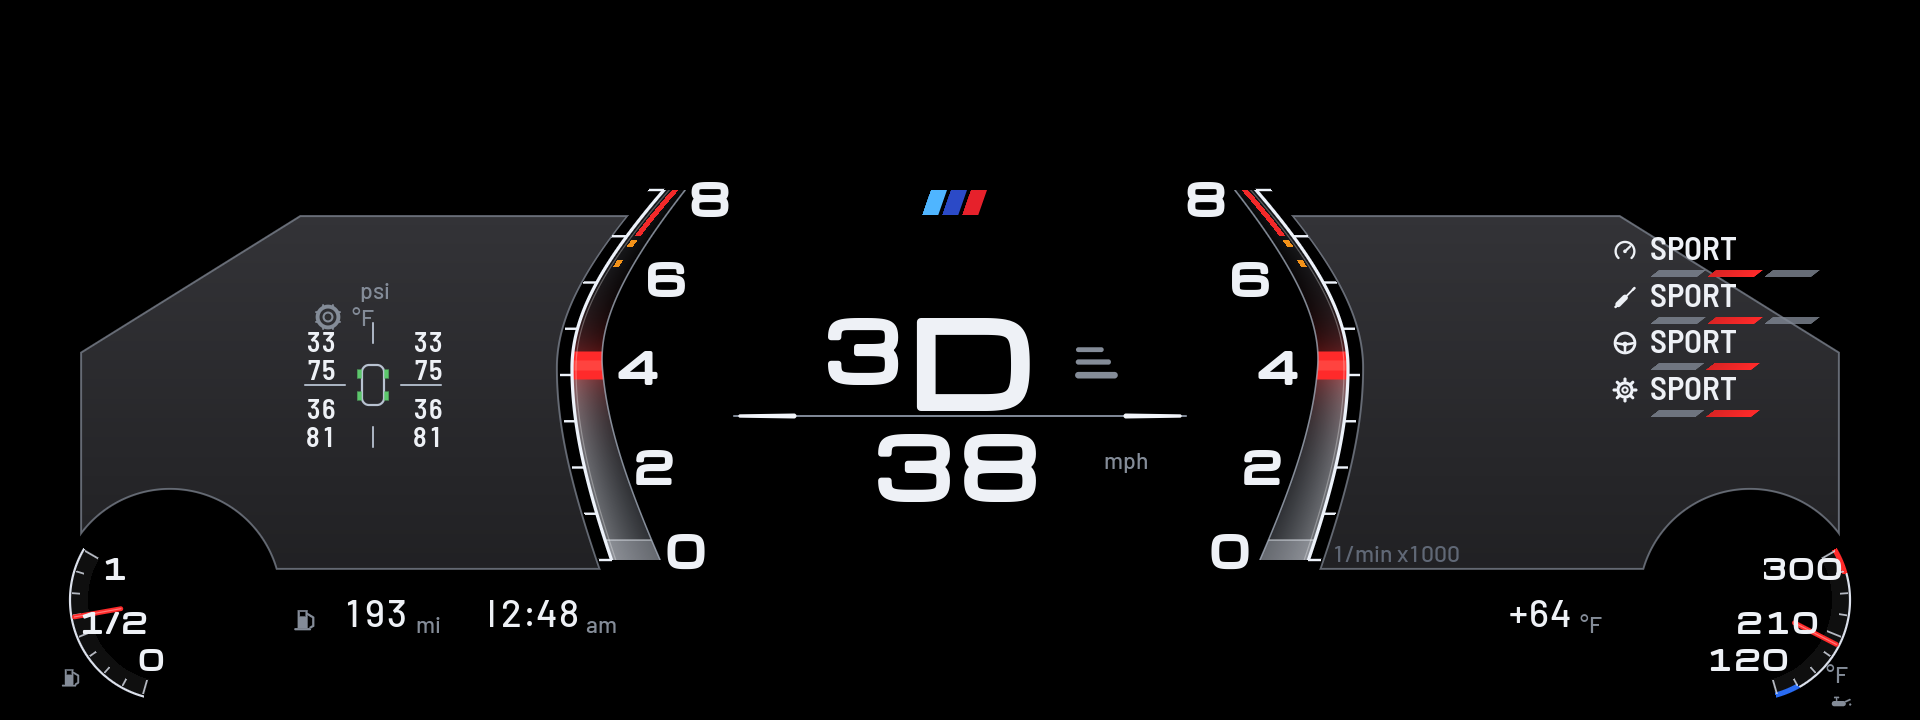
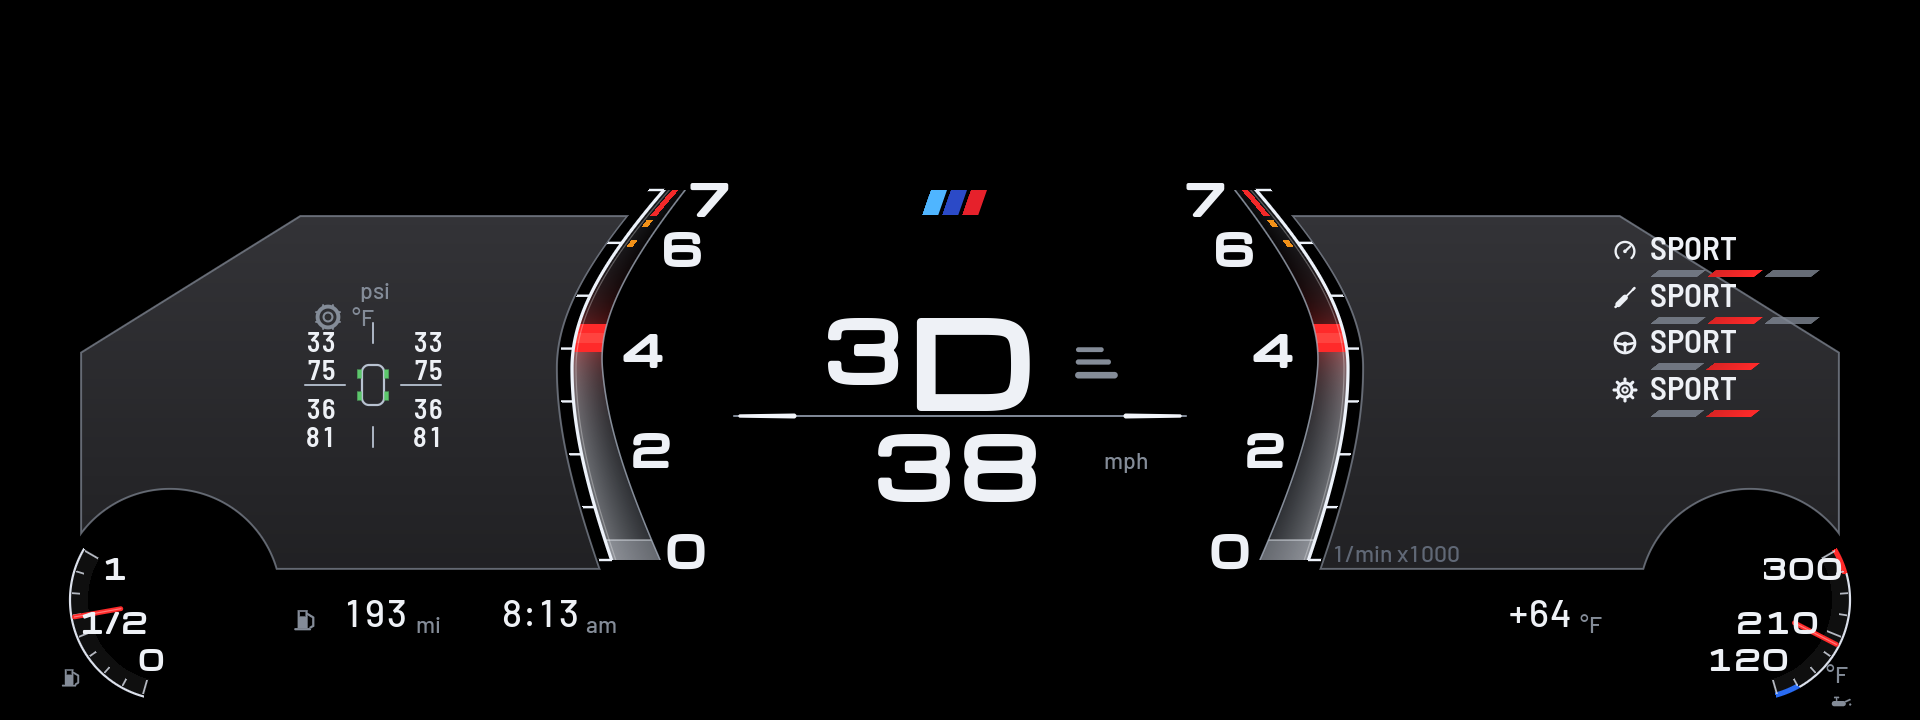
Rev scales end at 7000 rpm like the M40i's cluster (0.7.5)
Claude-Session: https://claude.ai/code/session_01Pd9qGGBHowUHizr4Ey8fBR

diff --git a/shared/hud.js b/shared/hud.js
@@ -704,6 +704,14 @@ class HudApp {
         return Object.prototype.hasOwnProperty.call(d, name) ? d[name] : null;
     }
 
+    /** Where the red and orange marks start on a rev scale that ends at `max` rpm, as fractions 0..1: red from the
+     *  redline, but always covering at least the last 500 rpm (the M40i's scale ends right at its 7000 redline),
+     *  orange over the 700 rpm before the red. */
+    _redMarks(max) {
+        const redFrom = Math.min(this.setting('redline'), max - 500) / max;
+        return [redFrom, redFrom - 700 / max];
+    }
+
     /** The scale label nearest the value now: 'speed' (SPEED_SCALE index) or 'rpm' (thousands); null without data. */
     _nearMark(kind) {
         if (kind === 'rpm') { const r = this._raw('rpm'); return isNum(r) ? Math.round(r / 1000) : null; }
@@ -1009,8 +1017,9 @@ class HudApp {
             c.uniform(ref, 'u_inner', [w.inner || w.band + 18]);
             c.uniform(ref, 'u_scale', w.scale || [w.geo[2], w.geo[0]]);
             c.uniform(ref, 'u_ticks', w.ticks);
-            c.uniform(ref, 'u_redFrom', [this.setting('redline') / (w.rpmMax || 8000)]);
-            c.uniform(ref, 'u_orange', [(this.setting('redline') - 700) / (w.rpmMax || 8000)]);
+            const [redFrom, orange] = this._redMarks(w.rpmMax || 8000);
+            c.uniform(ref, 'u_redFrom', [redFrom]);
+            c.uniform(ref, 'u_orange', [orange]);
             c.uniform(ref, 'u_fuelSeg', w.fuelSeg);
             c.uniform(ref, 'u_oilSeg', w.oilSeg);
             c.uniform(ref, 'u_hole', this._hole(w));
@@ -1040,7 +1049,7 @@ class HudApp {
             x.gauges = [['u_gaugeL', L], ['u_gaugeR', R]];
             x.bars = bars;
         } else if (w.type === 'mtach') {
-            const max = w.max || 8000, red = this.setting('redline');
+            const max = w.max || 8000, [redFrom, orange] = this._redMarks(max);
             const right = w.side === 'right';
             c.uniform(ref, 'u_size', [w.w, w.h]);
             c.uniform(ref, 'u_side', [right ? 1 : -1]);
@@ -1048,8 +1057,8 @@ class HudApp {
             c.uniform(ref, 'u_geoB', [w.kTop, w.kBot, w.round || 40]);
             c.uniform(ref, 'u_wid', [w.wBot, w.wTop, w.wBend || 0]);
             c.uniform(ref, 'u_ticks', [max / 1000]);
-            c.uniform(ref, 'u_orange', [(red - 700) / max]);
-            c.uniform(ref, 'u_redFrom', [red / max]);
+            c.uniform(ref, 'u_orange', [orange]);
+            c.uniform(ref, 'u_redFrom', [redFrom]);
             c.uniform(ref, 'u_red', rgb(t.hot));
         }
         else if (w.type === 'grid') {

diff --git a/docs/DEVELOPING.md b/docs/DEVELOPING.md
@@ -35,7 +35,7 @@ The page has buttons for the drive mode (COMFORT, SPORT, SPORT+, ECO PRO), fed i
 Each app's layouts are `apps/<id>/hud/layouts/<name>.json` (`schemaVersion: 2`). Widget types, tokens and options are documented in the header of `shared/hud.js`. `shared/layouts.js` checks every layout and refuses a bad one with the reason, which also shows on the app's status row.
 
 - **HUD (800x480):** `text`, `scale`, `stripe`, `shiftbar`, `arc`, `revbar`, `lights`, `badge`. Colours are theme roles (`fg`, `dim`, `arc`), so a layout works in every theme.
-- **`atext` (both):** text drawn by the GPU: an effect layer that reads a glyph atlas of the font, uploaded once per connection as an R8 asset (one byte a pixel, not a layer, shared by every `atext` on that font). A value change is one uniform message of glyph codes, no pixels. Equal cells across the widget (`cells`, up to 32; the glyphs keep their shape at `w` = cells x the font's widest advance + 2 and `h` = its cell height, which the log states), `align` left, right or center, only the characters the font has. The calibration grids carry one as a probe (0.7.3 / 0.5.3); once the car has drawn it, the plan is to move every readout onto this path (see `research/findings.md`, "Cost levers").
+- **`atext` (both):** text drawn by the GPU: an effect layer that reads a glyph atlas of the font, uploaded once per connection as an R8 asset (one byte a pixel, not a layer, shared by every `atext` on that font). A value change is one uniform message of glyph codes, no pixels. Equal cells across the widget (`cells`, up to 32; the glyphs keep their shape at `w` = cells x the font's widest advance + 2 and `h` = its cell height, which the log states), `align` left, right or center, only the characters the font has. The calibration grids carry one as a probe (0.7.3 / 0.5.3), and the car drew it on both the cluster and the HUD (Nov 6 2026), so the plan is to move every readout onto this path (see `research/findings.md`, "Cost levers").
 - **Cluster (1920x720):** the same types, plus `fill` (a solid colour with a see-through `hole` cut while a setting is on) and `box` (a framed readout with a header strip). A cluster layout names its own `"theme"`.
 - **Sport theme:** `sdash` draws the whole theme (brackets, fills, the map cut-out or a black middle, fuel and oil bars, bottom strip) in one shader. Text `near: ["speed" | "rpm", i]` lights up the scale label nearest the value.
 - **GT3 theme:** `boxes` draws the background, the map cut-out and every framed box in one shader (array uniforms, up to 12 boxes); the labels are text widgets on top.
@@ -44,7 +44,7 @@ Each app's layouts are `apps/<id>/hud/layouts/<name>.json` (`schemaVersion: 2`).
 - **Calibration:** `grid` (lines every `step` px, brighter every `major` steps) and `gridlabels` (x/y labels every `step` px). Each app ships a `grid.json` layout.
 - **Off:** the layout name `off` draws nothing and releases the screen. With `byMode` on, the `inComfort` / `inSport` / `inEco` settings pick the layout from the car's drive mode (FES `statusFESVehicleDynamicSwitchHMI`).
 - **Effect shaders:** cluster-render's `v_uv` has (0,0) at the top-left. The bench draws the same way.
-- **Layer packing:** cluster-render allows 8 layers per client connection (32 across all clients, `CompositorLimits` in its source; confirmed on the car Nov 5 2026 with the grid's L1..L16 probe), so the engine packs every image widget (text, scale, icon, ...) into a few image "sheets" (one layer each, grouped by class and z, split where widgets overlap or a sheet would grow past a quarter of the target) and keeps effects one layer each; it aims for 8 layers per layout and warns in the log when a layout needs more. Put effect widgets first in a layout's file order and text after, so the text lands in as few sheets as possible. `"own": true` keeps an image widget on its own layer (the calibration probes). The limit is per connection, so `"conn": 1..3` on a widget puts its layer (or its sheet) on a second, third or fourth connection to cluster-render, each with its own 8 layers (32 service-wide); DukeAPenguin's idrive7-EVAHUD saw 28 layers shown over four sockets on his car, and the calibration grids probe it here. The service also has 16 MiB of pixel memory for every app's images together and counts each image twice, so an image layer costs w*h*8 bytes and the layout is refused past that ("the service's pixel memory is full"). The status row shows the layer count, the connections and the pixel memory; the rebuild log line says how many sheets, how many bytes the whole-sheet writes cost and the pixel memory. Text and badge widgets send only the rectangle around the pixels that changed since their last paint.
+- **Layer packing:** cluster-render allows 8 layers per client connection (32 across all clients, `CompositorLimits` in its source; confirmed on the car: Nov 5 2026 one connection drew 8, Nov 6 2026 the grid's L1..L16 probe drew all sixteen over three connections on both the cluster and the HUD), so the engine packs every image widget (text, scale, icon, ...) into a few image "sheets" (one layer each, grouped by class and z, split where widgets overlap or a sheet would grow past a quarter of the target) and keeps effects one layer each; it aims for 8 layers per layout and warns in the log when a layout needs more. Put effect widgets first in a layout's file order and text after, so the text lands in as few sheets as possible. `"own": true` keeps an image widget on its own layer (the calibration probes). The limit is per connection, so `"conn": 1..3` on a widget puts its layer (or its sheet) on a second, third or fourth connection to cluster-render, each with its own 8 layers (32 service-wide); DukeAPenguin's idrive7-EVAHUD saw 28 layers shown over four sockets on his car, and the calibration grids probe it here. The service also has 16 MiB of pixel memory for every app's images together and counts each image twice, so an image layer costs w*h*8 bytes and the layout is refused past that ("the service's pixel memory is full"). The status row shows the layer count, the connections and the pixel memory; the rebuild log line says how many sheets, how many bytes the whole-sheet writes cost and the pixel memory. Text and badge widgets send only the rectangle around the pixels that changed since their last paint.
 - **Any widget:** `toggle: "setting"` shows it only while that setting is on, and `"!setting"` only while it's off. `"setting=value"` shows it only while a choice setting has that value. `themes: [...]` limits it to certain themes.
 
 **Visibility check.** Not every pixel of a target reaches the driver's eye: on the cluster the hood hides the top corners (down to y 273 at the left edge and y 240 at the right, nothing at the center), BMW paints a solid black gear box over us at x 1406-1597 y 342-419 and its seat-belt light at x 587-626 y 663-700; on the HUD only x 120, y 100, 485x278 of the 800x480 target shows through the windshield (it moves with eye position). These numbers were measured from car photos on Nov 5 2026 (`design/photos/calibration-2026-11-05.json`, pictures next to it) and live in `shared/visible.js`. `layouts.js` runs its `check()` after validating a layout and logs one warning per widget that is under the hood, under the box or light, or outside the HUD window; it never refuses a layout for this. The bench draws the same geometry as its "car view" and flags the layers (see `bench/README.md`).

diff --git a/apps/cluster_themes/README.md b/apps/cluster_themes/README.md
@@ -23,7 +23,7 @@ A race dash.
 
 The look of a current M8's cluster, on black.
 
-- **Middle:** two bowed glass rev blades either side of the gear and speed. A red marker rides each blade at the rpm, the blade lights up below it, and orange and red marks sit before and past your redline.
+- **Middle:** two bowed glass rev blades either side of the gear and speed, reading 0 to 7000 rpm like the M40i's own cluster. A red marker rides each blade at the rpm, the blade lights up below it, and orange and red marks sit before and past your redline.
 - **Left:** a charcoal card with the tyre block: pressure and temperature at each corner round a car glyph (from the car's tyre monitor, read every 10 seconds). The fuel gauge sits in the card's lower corner.
 - **Right:** what the engine, chassis, steering and gearbox are set to, as rows with a three-step bar, and the oil temperature gauge. The rows follow the drive mode buttons: Comfort, Sport, Sport Plus and Eco Pro. The car only reports the overall mode, so an Individual setup shows as its base mode.
 - **Bottom:** range, the clock, and the outside temperature.
@@ -35,7 +35,7 @@ The look of a current M8's cluster, on black.
 The look of BMW's newer Live Cockpit Sport view.
 
 - **Left:** speed as a blue bracket on BMW's 0 to 200 mph scale (0 to 320 km/h), with the digital speed and a fuel bar inside it.
-- **Right:** revs as a red bracket with yellow and red marks around your redline, with the gear and an oil temperature bar inside it.
+- **Right:** revs as a red bracket on the M40i's 0 to 7000 rpm scale, with yellow and red marks around your redline, with the gear and an oil temperature bar inside it.
 - **Middle:** black, or BMW's map with "Leave room for the map" on.
 - **Bottom:** boost and coolant in the blue and red strip, plus the clock, range and outside temperature.
 
@@ -55,7 +55,7 @@ More themes are on the way.
 - **Leave room for the map:** cuts a window out of the dash so BMW's map shows through, moves the gear and temperatures to the sides, and slims the rev bar. Works in GT3 and Sport.
 - **Units:** mph, °F, psi or km/h, °C, bar.
 - **Clock:** 12-hour or 24-hour.
-- **Redline.**
+- **Redline:** where the red marks start on the rev scales (they always cover at least the last 500 rpm, and the yellow marks sit in the 700 rpm before them).
 - **Shift point before redline:** how far below the redline the shift lights peak (300 rpm by default).
 - **Cold-engine rev guard:** until the oil reaches 80°C, the shift point starts at 4500 rpm and climbs as the oil warms up.
 - **Show boost.**

diff --git a/CHANGELOG.md b/CHANGELOG.md
@@ -4,6 +4,7 @@ Newest first. Dates are when the build was pushed.
 
 ## Nov 6 2026
 
+- **Cluster Themes 0.7.5:** the Sport and M rev scales end at 7000 rpm, like the M40i's own cluster (they read to 8 before). The red marks always cover at least the last 500 rpm, with the yellow ones in the 700 rpm before them.
 - **Cluster Themes 0.7.4:** the M theme rebuilt against the M8 photo. Bowed glass rev blades with a red marker at the rpm, charcoal cards, white gear and speed, and the tyre pressure and temperature block (from the car's tyre monitor) in place of the G-meter.
 
 ## Nov 5 2026
